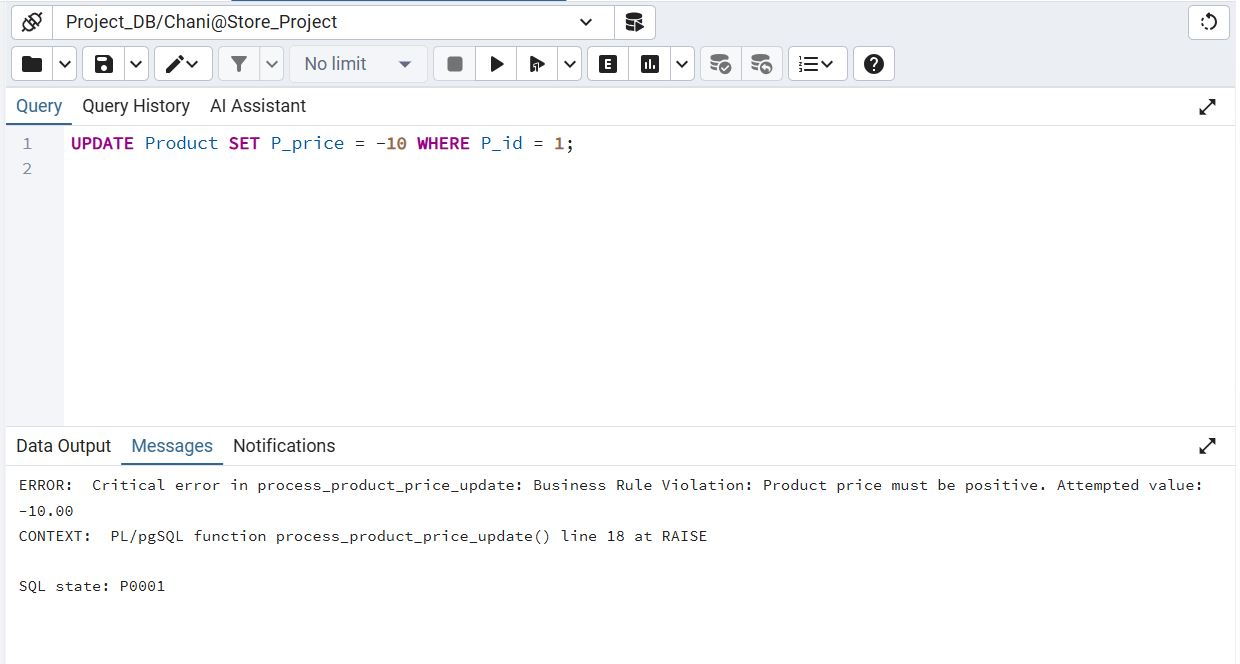
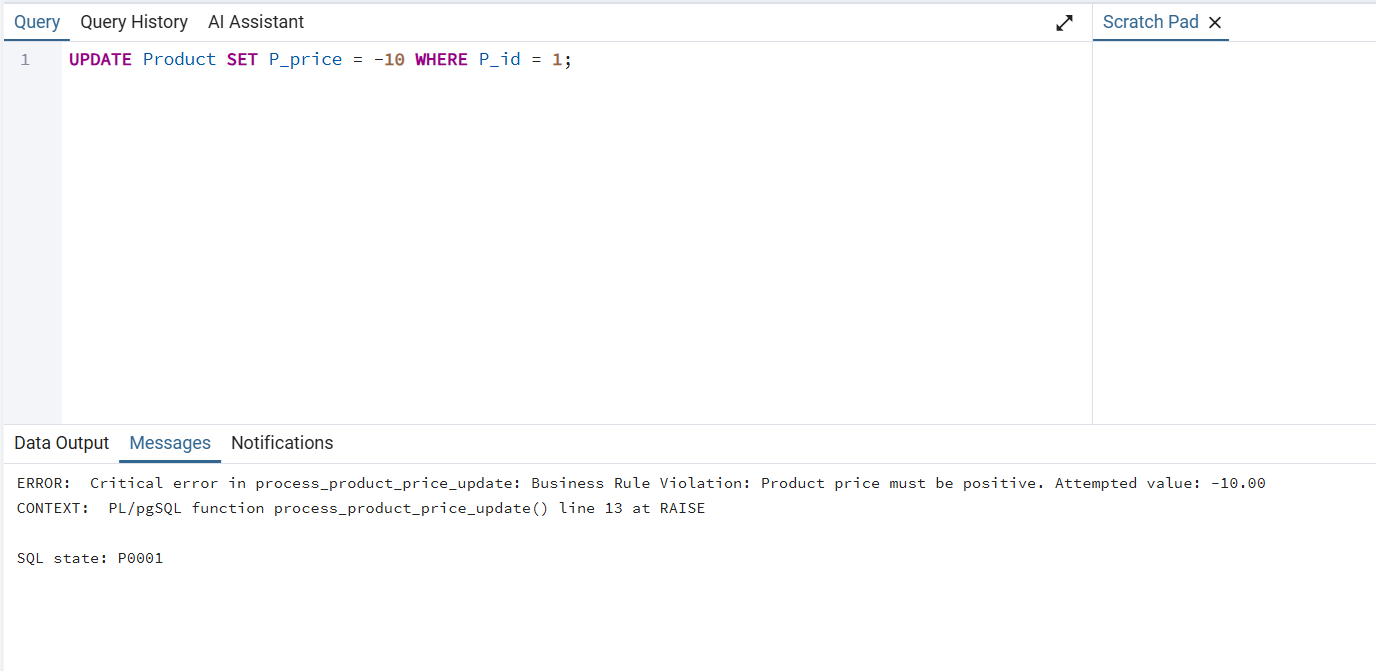
fix stageD

diff --git a/README.md b/README.md
@@ -3361,106 +3361,92 @@ LIMIT 5;
 
 
 <details>
-<summary><b>טריגר 3 – בקרת מחיר ותיעוד היסטורי בטבלת מוצרים  </b></summary>
+<summary><b>טריגר 3 – בקרת מחיר מוצר</b></summary>
 
-## טריגר 3 – בקרת מחיר ותיעוד היסטורי בטבלת מוצרים
-
+## טריגר 3 – בקרת מחיר מוצר
 
 הטריגר:
 
 ```text
 trigger_check_and_log_product_price
 ```
+
 משתמש בפונקציית הטריגר:
 
 ```text
 process_product_price_update
 ```
 
-מטרת הטריגר היא להבטיח את איכות הנתונים בטבלת Product. הטריגר מבצע שתי פעולות משולבות: הוא חוסם הזנת מחיר לא תקין (אפס או שלילי) לפני ביצוע העדכון, ומתעד באופן אוטומטי כל שינוי במחיר בטבלת היסטוריה, כולל תיעוד של המשתמש שביצע את השינוי
+מטרת הטריגר היא להבטיח את תקינות הנתונים בטבלת Product.
+הטריגר אוכף חוק עסקי שלפיו מחיר מוצר חייב להיות חיובי. אם מתבצע ניסיון להכניס או לעדכן מחיר לערך קטן או שווה ל־0, הטריגר חוסם את הפעולה ומחזיר הודעת שגיאה.
 
-###  קוד הטריגר
-
+### קוד הטריגר
 
 ```sql
-
-CREATE TABLE IF NOT EXISTS product_price_history (
-    history_id SERIAL PRIMARY KEY,
-    p_id INT,
-    old_price NUMERIC,
-    new_price NUMERIC,
-    changed_by TEXT,
-    change_date TIMESTAMP DEFAULT CURRENT_TIMESTAMP
-);
-
--- יצירת פונקציית הטריגר
 CREATE OR REPLACE FUNCTION process_product_price_update()
 RETURNS TRIGGER
 LANGUAGE plpgsql
 AS $$
 BEGIN
-    -- ולידציה: לוודא שהמחיר חיובי
+    -- Business rule: product price must be positive
     IF NEW.P_price <= 0 THEN
-        RAISE EXCEPTION 'Business Rule Violation: Product price must be positive. Attempted value: %', NEW.P_price;
-    END IF;
-
-    -- לוג: רק אם המחיר השתנה בפועל
-    IF OLD.P_price IS DISTINCT FROM NEW.P_price THEN
-        INSERT INTO product_price_history (p_id, old_price, new_price, changed_by)
-        VALUES (OLD.P_id, OLD.P_price, NEW.P_price, current_user);
+        RAISE EXCEPTION 
+            'Business Rule Violation: Product price must be positive. Attempted value: %',
+            NEW.P_price;
     END IF;
 
     RETURN NEW;
+
 EXCEPTION
     WHEN OTHERS THEN
         RAISE EXCEPTION 'Critical error in process_product_price_update: %', SQLERRM;
 END;
 $$;
 
--- יצירת הטריגר
 DROP TRIGGER IF EXISTS trigger_check_and_log_product_price ON Product;
 
 CREATE TRIGGER trigger_check_and_log_product_price
-BEFORE UPDATE OF P_price ON Product
+BEFORE INSERT OR UPDATE OF P_price ON Product
 FOR EACH ROW
 EXECUTE FUNCTION process_product_price_update();
-
 ```
 
 ### יצירת הטריגר
-הטריגר וטבלת ההיסטוריה נוצרו בהצלחה ב־pgAdmin.
+
+הטריגר נוצר בהצלחה ב־pgAdmin.
 
 ![Create Trigger 3](DBProject/dbFiles/trigger3_create.JPG)
 
-### הרצת הטריגר (בדיקת חסימה)
-כדי לוודא שהטריגר מגן על הנתונים, בוצע ניסיון עדכון למחיר שלילי עבור מוצר 1:
+### הרצת הטריגר – בדיקת חסימה
+
+כדי לוודא שהטריגר מגן על הנתונים, בוצע ניסיון לעדכן מחיר שלילי עבור מוצר 1:
 
 ```sql
 UPDATE Product SET P_price = -10 WHERE P_id = 1;
 ```
+
 הטריגר חסם את הפעולה והציג הודעת שגיאה מפורטת.
 
 ![Erorr Trigger 3](DBProject/dbFiles/trigger3_error.png)
 
+### בדיקת פעולה מאושרת
 
-### בדיקת פעולה מאושרת ותיעוד בלוג
-
-לאחר מכן בוצע עדכון למחיר תקין עבור מוצר 1, והשינוי תועד בטבלת הלוג:
+לאחר מכן בוצע עדכון למחיר תקין עבור מוצר 1:
 
 ```sql
-
 UPDATE Product SET P_price = 199.99 WHERE P_id = 1;
 
-SELECT * FROM product_price_history ORDER BY change_date DESC;
+SELECT P_id, P_price
+FROM Product
+WHERE P_id = 1;
 ```
 
-
-בתוצאה ניתן לראות שנוספה רשומת לוג חדשה המתעדת את שינוי המחיר, כולל שם המשתמש שביצע את השינוי.
+בתוצאה ניתן לראות שהמחיר עודכן בהצלחה, מפני שהערך החדש עומד בחוק העסקי של מחיר חיובי.
 
 ![Success Trigger 3](DBProject/dbFiles/trigger3_success.png)
 
+הצילומים מוכיחים שהטריגר נוצר בהצלחה, מונע הכנסת נתונים עסקיים שגויים, ומאפשר עדכון תקין כאשר המחיר חיובי.
 
-הצילומים מוכיחים שהטריגר נוצר בהצלחה, מונע הכנסת נתונים עסקיים שגויים, ומתעד כל שינוי לטובת שקיפות ואבטחה.
 </details>
 
 ---
